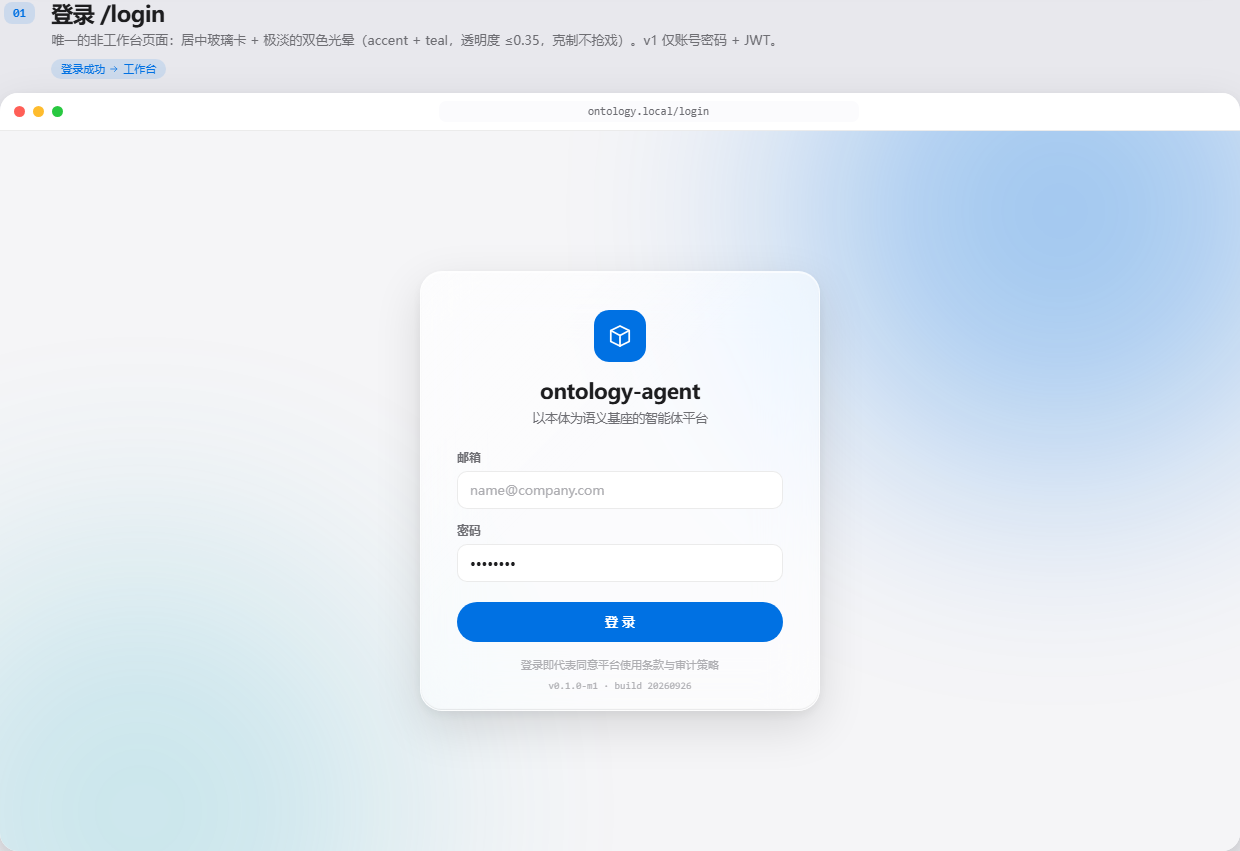
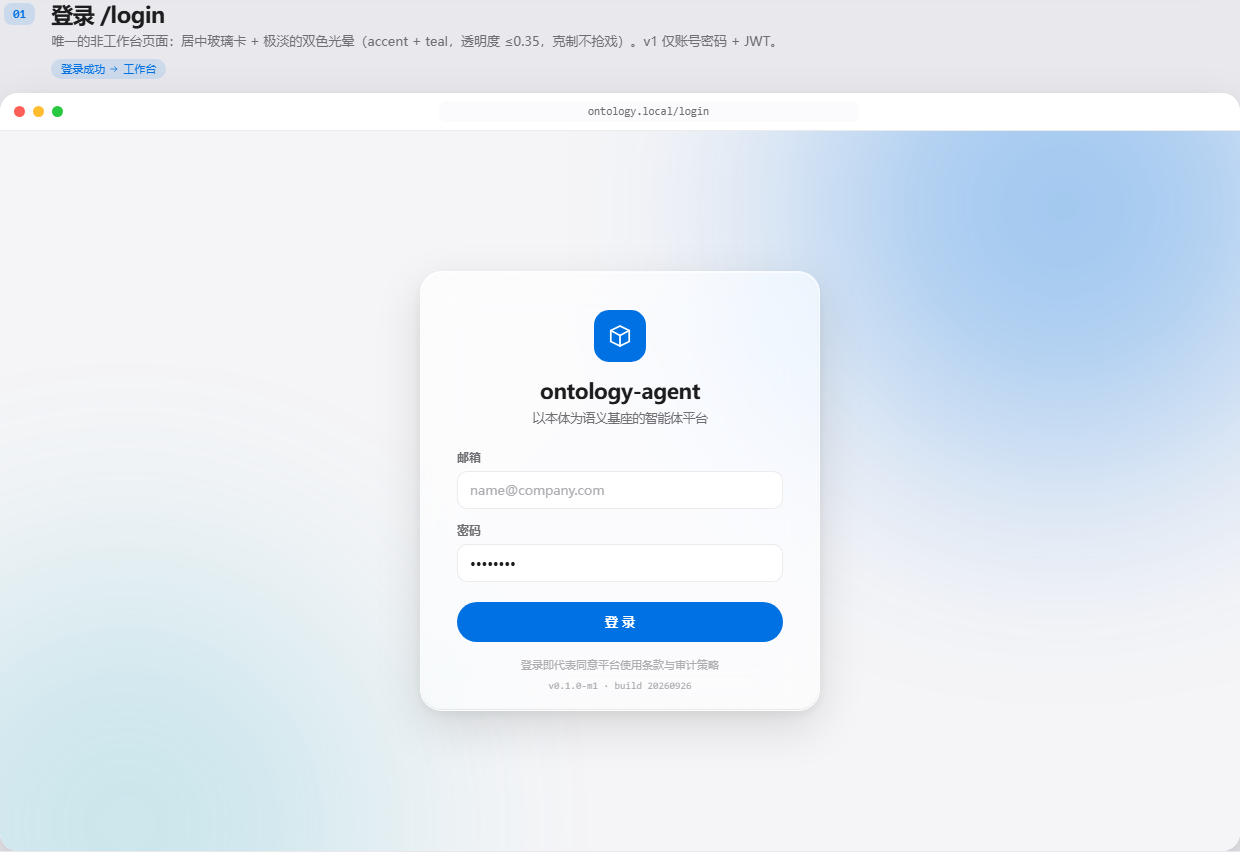
feat(frontend): 对齐 iOS 26 液态玻璃用色（Tinted 着色玻璃第三档 + 色系规则）+ 画板动效实装（滚动入场/循环动效/动效展演区/重播）

diff --git a/docs/设计稿/ui-design-board.html b/docs/设计稿/ui-design-board.html
@@ -54,6 +54,43 @@
   --glass-lo:rgba(0,0,0,.3);
   --glass-border:rgba(255,255,255,.14);
 }
+
+/* ---- 动效实装（styles/motion.css 同源；滚动入场由 IntersectionObserver 触发） ---- */
+@keyframes oa-fade-up{from{opacity:0;transform:translateY(8px)}to{opacity:1;transform:none}}
+@keyframes oa-pulse-ring{0%{box-shadow:0 0 0 0 var(--accent-soft)}70%{box-shadow:0 0 0 6px transparent}100%{box-shadow:0 0 0 0 transparent}}
+@keyframes oa-caret{0%,45%{opacity:1}50%,100%{opacity:0}}
+@keyframes oa-shimmer{from{background-position:200% 0}to{background-position:-200% 0}}
+@keyframes oa-indet{from{left:-40%}to{left:100%}}
+@keyframes oa-sheen-loop{0%{background-position:220% 0}55%,100%{background-position:-120% 0}}
+@keyframes oa-blob-drift{0%,100%{transform:translate(0,0) scale(1)}33%{transform:translate(3%,-4%) scale(1.04)}66%{transform:translate(-3%,3%) scale(.97)}}
+.pulse-ring{animation:oa-pulse-ring 2s var(--ease) infinite}
+.stream-caret{display:inline-block;width:2px;height:.95em;vertical-align:-2px;background:var(--accent);margin-left:2px;animation:oa-caret 1s steps(1) infinite}
+.skel-animated{background:linear-gradient(90deg,rgba(0,0,0,.06) 25%,rgba(0,0,0,.12) 50%,rgba(0,0,0,.06) 75%);background-size:200% 100%;animation:oa-shimmer 1.4s linear infinite}
+.dark .skel-animated{background:linear-gradient(90deg,rgba(255,255,255,.08) 25%,rgba(255,255,255,.16) 50%,rgba(255,255,255,.08) 75%);background-size:200% 100%}
+.indeterminate{position:relative;overflow:hidden;background:var(--accent-soft);border-radius:3px;height:6px}
+.indeterminate::after{content:"";position:absolute;top:0;bottom:0;width:40%;border-radius:3px;background:var(--accent);animation:oa-indet 1.2s var(--ease) infinite}
+.glass-sheen-loop{position:relative;overflow:hidden}
+.glass-sheen-loop::after{content:"";position:absolute;inset:0;border-radius:inherit;pointer-events:none;
+  background:linear-gradient(115deg,transparent 38%,var(--glass-hi) 50%,transparent 62%);
+  background-size:220% 100%;background-position:220% 0;opacity:.4;mix-blend-mode:screen;
+  animation:oa-sheen-loop 5.5s var(--ease) infinite}
+.blob-drift{animation:oa-blob-drift 14s ease-in-out infinite}
+/* 滚动入场：画框头与 stagger 列表进入视口才播 */
+.frame-head,.anim-up{opacity:0;transform:translateY(8px);transition:opacity .4s var(--ease),transform .4s var(--ease)}
+.frame.in-view .frame-head,.in-view.anim-up{opacity:1;transform:none}
+.stagger>*{opacity:0;transform:translateY(8px)}
+.frame.in-view .stagger>*{animation:oa-fade-up .4s var(--ease) both}
+.frame.in-view .stagger>*:nth-child(2){animation-delay:40ms}
+.frame.in-view .stagger>*:nth-child(3){animation-delay:80ms}
+.frame.in-view .stagger>*:nth-child(4){animation-delay:120ms}
+.frame.in-view .stagger>*:nth-child(5){animation-delay:160ms}
+.frame.in-view .stagger>*:nth-child(n+6){animation-delay:200ms}
+.theme-fading *{transition:background-color var(--dur-2) var(--ease),color var(--dur-2) var(--ease),border-color var(--dur-2) var(--ease)!important}
+@media (prefers-reduced-motion:reduce){
+  .frame-head,.anim-up,.stagger>*{opacity:1!important;transform:none!important;animation:none!important}
+  .pulse-ring,.stream-caret,.skel-animated,.indeterminate::after,.glass-sheen-loop::after,.blob-drift{animation:none!important}
+}
+
 /* ============ 画板全局 ============ */
 *{box-sizing:border-box;margin:0;padding:0}
 html{scroll-behavior:smooth}
@@ -745,6 +782,37 @@ body{font-family:var(--font);background:var(--board);color:var(--label);
           <p style="font-size:11px;color:var(--label-3);margin-top:8px">CLI `oa` 全集见 13 篇；复制按钮 hover 显现。</p>
         </div>
       </div>
+      <!-- 动效展演（实时循环，motion.css 同源） -->
+      <div style="display:flex;align-items:center;gap:10px;padding:20px 4px 2px">
+        <h3 style="font-size:15px;font-weight:700">动效展演</h3>
+        <span class="badge b-blue">motion.css 实时循环</span>
+        <span style="margin-left:auto"><button class="btn btn-g btn-sm" onclick="replayMotion()">重播入场</button></span>
+      </div>
+      <div class="grid3 stagger" style="margin-top:12px" id="motion-demo">
+        <div class="card">
+          <div class="card-h" style="margin-bottom:10px"><h3 style="font-size:13.5px">加载态</h3><span class="badge b-gray">skel-animated / indeterminate</span></div>
+          <div class="skel skel-animated" style="width:70%"></div><div class="skel skel-animated" style="width:90%;margin-top:8px"></div><div class="skel skel-animated" style="width:50%;margin-top:8px"></div>
+          <div style="font-size:11px;color:var(--label-2);margin:14px 0 5px">流水线心跳（不确定进度）</div>
+          <div class="indeterminate"></div>
+          <div style="display:flex;align-items:center;gap:8px;margin-top:14px;font-size:12px;color:var(--label-2)">
+            <svg class="spin" style="width:13px;height:13px;color:var(--accent)"><use href="#i-refresh"/></svg>批量抽取运行中…</div>
+        </div>
+        <div class="card">
+          <div class="card-h" style="margin-bottom:10px"><h3 style="font-size:13.5px">运行态 / 流式</h3><span class="badge b-gray">pulse-ring / stream-caret</span></div>
+          <div style="display:flex;align-items:center;gap:8px;font-size:13px"><span class="dot d-green pulse-ring"></span>原生 Agent 运行中</div>
+          <div style="margin-top:14px;background:var(--surface-2);border:1px solid var(--separator);border-radius:12px;padding:10px 12px;font-size:12.5px;line-height:1.7">
+            两个标准在循环寿命上的核心差异…<span class="stream-caret"></span></div>
+          <div style="font-size:11px;color:var(--label-3);margin-top:10px">对话生成中：光标闪烁直到 RUN_FINISHED</div>
+        </div>
+        <div class="card">
+          <div class="card-h" style="margin-bottom:10px"><h3 style="font-size:13.5px">玻璃氛围 / 反馈</h3><span class="badge b-gray">sheen-loop / hover-lift</span></div>
+          <div class="glass glass-sheen-loop" style="border-radius:14px;padding:12px 14px;font-size:12px"><b>Regular 光扫循环</b><div class="text-dim" style="margin-top:3px">登录卡 / 空态插图用</div></div>
+          <div class="row" style="margin-top:10px;display:flex;gap:8px">
+            <button class="btn btn-gl-p">Tinted 主操作</button>
+            <button class="btn btn-gl hover-lift pressable">hover / press</button></div>
+          <div style="font-size:11px;color:var(--label-3);margin-top:10px">Tinted 着色玻璃：iOS 26 第三档，每屏至多一处</div>
+        </div>
+      </div>
     </div></div>
   </section>
 
@@ -760,8 +828,8 @@ body{font-family:var(--font);background:var(--board);color:var(--label);
     </div>
     <div class="browser"><div class="bbar"><span class="bdot" style="background:#ff5f57"></span><span class="bdot" style="background:#febc2e"></span><span class="bdot" style="background:#28c840"></span><span class="burl">ontology.local/login</span></div>
       <div class="login-stage">
-        <div class="login-wash lw1"></div><div class="login-wash lw2"></div>
-        <div class="login-card">
+        <div class="login-wash lw1 blob-drift"></div><div class="login-wash lw2 blob-drift" style="animation-delay:-7s"></div>
+        <div class="login-card glass-sheen-loop">
           <div class="login-logo"><svg><use href="#i-cube"/></svg></div>
           <h1>ontology-agent</h1>
           <p class="lsub">以本体为语义基座的智能体平台</p>
@@ -929,7 +997,7 @@ body{font-family:var(--font);background:var(--board);color:var(--label);
                         <span class="ev-chip"><svg><use href="#i-doc"/></svg>GB/T 36276-2018 §5.2.4</span>
                         <span class="ev-chip"><svg><use href="#i-cube"/></svg>图谱路径：循环寿命 ←特性— 对象：电池单体</span>
                       </div>
-                      <p style="font-size:11px;color:var(--label-2);margin-top:10px">以上结论经本体约束过滤（术语对齐 0.92+），推理路径可追溯。</p>
+                      <span class="stream-caret"></span><p style="font-size:11px;color:var(--label-2);margin-top:10px">以上结论经本体约束过滤（术语对齐 0.92+），推理路径可追溯。</p>
                     </div>
                   </div></div>
               </div>
@@ -1601,7 +1669,7 @@ body{font-family:var(--font);background:var(--board);color:var(--label);
             <div class="card" style="padding:6px 14px">
               <table class="tbl">
                 <tr><th>文档名称</th><th>类型</th><th>大小</th><th>切片</th><th>流水线</th><th>更新</th><th></th></tr>
-                <tr><td style="font-weight:600">动力电池标准汇编 v3.pdf</td><td><span class="badge b-gray">PDF</span></td><td class="mono">18.2MB</td><td class="mono">412</td><td><span class="badge b-orange"><span class="dot d-orange" style="width:5px;height:5px"></span>抽取中 · JOB #218</span></td><td class="text-dim">10 分钟前</td><td><span class="icobtn" style="width:24px;height:24px"><svg><use href="#i-more"/></svg></span></td></tr>
+                <tr><td style="font-weight:600">动力电池标准汇编 v3.pdf</td><td><span class="badge b-gray">PDF</span></td><td class="mono">18.2MB</td><td class="mono">412</td><td><span class="badge b-orange"><span class="dot d-orange pulse-ring" style="width:5px;height:5px"></span>抽取中 · JOB #218</span></td><td class="text-dim">10 分钟前</td><td><span class="icobtn" style="width:24px;height:24px"><svg><use href="#i-more"/></svg></span></td></tr>
                 <tr><td style="font-weight:600">GB送审稿-热失控专题.docx</td><td><span class="badge b-gray">Word</span></td><td class="mono">2.4MB</td><td class="mono">58</td><td><span class="badge b-blue">预处理</span></td><td class="text-dim">1 小时前</td><td><span class="icobtn" style="width:24px;height:24px"><svg><use href="#i-more"/></svg></span></td></tr>
                 <tr><td style="font-weight:600">循环寿命测试数据.xlsx</td><td><span class="badge b-gray">Excel</span></td><td class="mono">860KB</td><td class="mono">31</td><td><span class="badge b-green">已入库</span></td><td class="text-dim">昨天</td><td><span class="icobtn" style="width:24px;height:24px"><svg><use href="#i-more"/></svg></span></td></tr>
                 <tr><td style="font-weight:600">退单流程图（扫描）.png</td><td><span class="badge b-gray">图片</span></td><td class="mono">4.1MB</td><td class="mono">6</td><td><span class="badge b-green">已入库 · OCR 复核完成</span></td><td class="text-dim">周一</td><td><span class="icobtn" style="width:24px;height:24px"><svg><use href="#i-more"/></svg></span></td></tr>
@@ -1948,5 +2016,21 @@ body{font-family:var(--font);background:var(--board);color:var(--label);
     评审通过后按 16 篇页面规格进入 M1 实现 · 03 篇路由表 15 页已全部覆盖（本体项目/知识库/图谱/Agent/工具技能/MCP/系统管理 为 v1.3 新增）
   </p>
 </div>
+
+<script>
+const io = new IntersectionObserver(es => es.forEach(e => {
+  if (e.isIntersecting) { e.target.classList.add('in-view'); io.unobserve(e.target); }
+}), {threshold: .12});
+document.querySelectorAll('.frame').forEach(f => io.observe(f));
+function replayMotion(){
+  const d = document.getElementById('motion-demo');
+  d.classList.remove('stagger'); void d.offsetWidth; d.classList.add('stagger');
+}
+const _toggle = document.querySelector('.theme-btn');
+_toggle.addEventListener('click', () => {
+  document.documentElement.classList.add('theme-fading');
+  setTimeout(() => document.documentElement.classList.remove('theme-fading'), 300);
+});
+</script>
 </body>
 </html>

diff --git a/frontend/src/design-system/styles/glass.css b/frontend/src/design-system/styles/glass.css
@@ -46,8 +46,8 @@
   border:1px solid var(--glass-border);
   box-shadow:inset 0 1px 0 var(--glass-hi),inset 0 -1px 1px var(--glass-lo);
 }
-.btn-gl-p{color:var(--on-accent);border:1px solid rgba(255,255,255,.4);
-  background:linear-gradient(135deg,rgba(255,255,255,.32),rgba(255,255,255,0) 45%),var(--accent);
+.btn-gl-p{color:var(--on-accent);border:1px solid var(--glass-tinted-border);
+  background:linear-gradient(135deg,rgba(255,255,255,.28),rgba(255,255,255,0) 45%),var(--glass-tinted);
   box-shadow:inset 0 1px 0 rgba(255,255,255,.5),inset 0 -1px 2px rgba(0,0,0,.15),var(--glow-accent);
 }
 .btn-gl:hover,.btn-gl-p:hover{transform:translateY(-1px)}
@@ -60,3 +60,13 @@
   .glass,.glass-clear,.btn-gl{background:var(--surface);border-color:var(--separator)}
   .glass::after,.glass-clear::after{display:none}
 }
+
+/* Tinted 着色玻璃（iOS 26 第三档）：强调色透过玻璃，每屏至多一处主操作/选中态 */
+.glass-tinted{
+  position:relative;
+  background:linear-gradient(135deg,rgba(255,255,255,.22),transparent 45%),var(--glass-tinted);
+  -webkit-backdrop-filter:blur(24px) saturate(200%);backdrop-filter:blur(24px) saturate(200%);
+  border:1px solid var(--glass-tinted-border);color:var(--on-accent);
+  box-shadow:inset 0 1px 0 rgba(255,255,255,.4),inset 0 -1px 1px rgba(0,0,0,.15),var(--glow-accent);
+}
+@media (prefers-reduced-transparency:reduce){.glass-tinted{background:var(--accent)}}

diff --git a/frontend/src/design-system/tokens/tokens.css b/frontend/src/design-system/tokens/tokens.css
@@ -33,6 +33,8 @@
   --glass-hi:rgba(255,255,255,.65);          /* 顶部镜面高光 */
   --glass-lo:rgba(0,0,0,.08);                /* 底部内阴影 */
   --glass-border:rgba(255,255,255,.55);
+  --glass-tinted:rgba(0,113,227,.78);       /* Tinted：强调色着色玻璃（主操作/选中，iOS 26） */
+  --glass-tinted-border:rgba(255,255,255,.4);
 
   /* 几何 / 阴影 / 动效 / 字体 */
   --r-card:18px; --r-panel:14px; --r-ctl:10px; --r-pill:999px;
@@ -78,6 +80,8 @@
   --glass-hi:rgba(255,255,255,.22);
   --glass-lo:rgba(0,0,0,.3);
   --glass-border:rgba(255,255,255,.14);
+  --glass-tinted:rgba(10,132,255,.6);
+  --glass-tinted-border:rgba(255,255,255,.25);
   --sh-card:0 2px 8px rgba(0,0,0,.3),0 8px 24px rgba(0,0,0,.35);
   --sh-float:0 4px 12px rgba(0,0,0,.4),0 16px 48px rgba(0,0,0,.55);
   --edge:rgba(255,255,255,.22);

diff --git a/docs/架构设计/03-前端架构与UI设计规范.md b/docs/架构设计/03-前端架构与UI设计规范.md
@@ -32,11 +32,11 @@
 ### 2.1 设计语言要点
 
 - **材质（液态玻璃 Liquid Glass，2025 Apple 设计语言）**：大面积浅灰底 `#f5f5f7` 上的白色浮层；**控制/导航层用液态玻璃**——透镜式折射（`backdrop-filter: blur(24px) saturate(200%)` 高饱和保真，避免纯 blur 的"灰塑料感"）+ 顶部镜面高光（inset 白色 rim light）+ 底部内阴影 + 半透明渐变着色 + 1px 半透明描边；玻璃层随背后内容自适应亮暗。深色模式底 `#000`。
-- **玻璃分两档**（对齐 Apple HIG）：**Regular**（较实，着色 60–72%，承载文字，用于侧边栏/顶栏/对话框/输入栏）与 **Clear**（较透，着色 30–40%，悬浮于内容/画布之上，用于画布工具条、验证条、悬浮控件）。
+- **玻璃分三档**（对齐 iOS 26 HIG）：**Regular**（较实，着色 60–72%，承载文字，用于侧边栏/顶栏/对话框/输入栏）、**Clear**（较透，着色 30–40%，悬浮于内容/画布之上，用于画布工具条、验证条、悬浮控件）与 **Tinted**（强调色着色玻璃 `--glass-tinted`，色透过玻璃呈现，用于每屏唯一的主操作/选中态——SwiftUI `.glassProminent` 的等价物）。
 - **字体**：系统字体栈（SF Pro / 苹方 / 鸿蒙 / 雅黑降级链），大标题收紧字距，正文 15px 起步，层级靠字重与字号不靠颜色堆砌。
 - **形状（同心几何）**：卡片连续大圆角（16–18px）、按钮胶囊形（CTA）/ 10px（常规）、输入框 10px；**嵌套圆角必须同心**（外 18 内 10，圆心一致，Apple Liquid Glass 几何规则）；分隔线用 0.5px 发丝线。
 - **阴影**：极柔和双层阴影 + 玻璃层的 inset 高光/内阴影；hover 时轻微抬升。
-- **颜色**：克制的单强调色（系统蓝），语义色（红/绿/橙）只用于状态；整体像 macOS 系统设置，不像后台管理系统。
+- **颜色（色系）**：克制的单强调色（系统蓝，iOS 26 系统蓝同源），语义色（红/绿/橙）只用于状态；**玻璃语境下语义色一律用 soft 底色，着色只出现在 Tinted 玻璃与选中态**（iOS 26：材质自适应亮暗与背后内容，不硬编码）；整体像 macOS/iOS 系统设置，不像后台管理系统。
 - 动效：一切进出场都有位移 + 透明度过渡；时长令牌 `--dur-1 150ms`（微交互）/ `--dur-2 250ms`（标准过渡）/ `--dur-3 400ms`（强调入场）/ `--dur-4 700ms`（氛围），`ease-apple` 与 `spring` 曲线；液态玻璃动效（hover 光扫/sheen 循环/光斑漂移）与平台微交互（stagger/pulse-ring/流式光标/shimmer 骨架/不确定进度/tick）统一在样式库 **`styles/motion.css`**（24 篇 §4.9）；玻璃控件状态切换用 **morphing 弹簧**；尊重 `prefers-reduced-motion` 与 `prefers-reduced-transparency`（后者玻璃退化为实底）。
 
 ### 2.2 颜色令牌（亮 / 暗成对）
@@ -53,6 +53,8 @@
 | `--glass-hi` | `rgba(255,255,255,.65)` | `rgba(255,255,255,.22)` | 顶部镜面高光（inset rim light） |
 | `--glass-lo` | `rgba(0,0,0,.08)` | `rgba(0,0,0,.3)` | 底部内阴影 |
 | `--glass-border` | `rgba(255,255,255,.55)` | `rgba(255,255,255,.14)` | 玻璃描边 |
+| `--glass-tinted` | `rgba(0,113,227,.78)` | `rgba(10,132,255,.6)` | **Tinted 着色玻璃**（主操作/选中，强调色透出） |
+| `--on-accent` | `#ffffff` | `#ffffff` | 强调色/着色玻璃上的文字 |
 | `--label` | `#1d1d1f` | `#f5f5f7` | 主文字 |
 | `--label-2` | `#6e6e73` | `#a1a1a6` | 次文字 |
 | `--label-3` | `#aeaeb2` | `#636366` | 占位 / 禁用 |
@@ -139,7 +141,7 @@ design-system/
 
 1. **玻璃只给控制/导航层**：侧边栏、顶栏、输入栏、悬浮工具条、Toast、Dialog/Sheet、玻璃按钮；**内容层一律实底**（卡片、表格、文档、表单、图谱节点）——保证可读性是玻璃材质的第一约束；
 2. **玻璃不叠玻璃**：玻璃层上不再放玻璃子元素（Dialog 内表单区用实底面板）；
-3. **两档选用**：承载文字的浮层用 Regular，悬浮于画布/媒体之上用 Clear；文字对比度不达标时升级为 Regular 或实底；
+3. **三档选用**：承载文字的浮层用 Regular，悬浮于画布/媒体之上用 Clear，**主操作/选中态用 Tinted**；Tinted 每屏至多一处（HIG：过度着色稀释层级）；文字对比度不达标时升级为 Regular 或实底；
 4. **实现分层**（CSS 原型见设计稿画板）：`backdrop-filter: blur(24px) saturate(200%)` + `--glass-tint` 对角渐变 + `inset 0 1px 0 var(--glass-hi)` 镜面高光 + `inset 0 -1px 1px var(--glass-lo)` + `1px var(--glass-border)` 描边；忠实折射（SVG feDisplacementMap）仅 Chromium 支持，v1 不引入；
 5. **退化路径**：`prefers-reduced-transparency` 或不支持 backdrop-filter 时，玻璃令牌替换为对应实底（`--surface`），布局不变；
 6. **同心圆角**：玻璃容器与其内部控件圆角同心（外 18 → 内 10）。

diff --git a/docs/架构设计/24-前端组件库扩充与外部样式借鉴.md b/docs/架构设计/24-前端组件库扩充与外部样式借鉴.md
@@ -94,7 +94,7 @@ DSH 的"一切皆插件 + 只追加事件日志"与本平台 05 篇"插件一入
 3. **accent 光晕**（glow）：主 CTA `box-shadow: 0 0 0 1px var(--glass-border), 0 8px 32px var(--accent-soft)`；选中图谱节点光晕已有同款，统一为 `--glow-accent` 令牌；
 4. **终端卡**（DSH）：`--surface-2` 底 + 发丝线圆角 12 + mono 13px + `$` 提示符 label-3 色 + 右上复制按钮（hover 显现）；
 5. **来源着色体系**（DSH Trajectory）：系统提示词=indigo / 工具调用=teal / 子 Agent=purple / 上下文注入=orange / 用户=accent——固定映射写入 tokens（`--src-*`）与 theme.ts，轨迹、审计、通知三处共用；
-9. **动效体系**（motion.css，2026 微交互趋势：克制、传递状态）：入场 `anim-fade-up/scale-in/slide-in-*` + 列表 `stagger`；运行态 `pulse-ring`（呼吸点）/`stream-caret`（流式光标）/`spin`；加载 `skel-animated`（shimmer 骨架）/`indeterminate`（不确定进度）；玻璃氛围 `glass-sheen-loop`（光扫循环）/`blob-drift`（登录光斑漂移）；反馈 `hover-lift`/`pressable`/`tick`（数字变化）；主题切换交叉淡化 `.theme-fading`。全部走 `--dur-1..4` 时长令牌，无限循环仅限运行态与氛围层，`prefers-reduced-motion` 全量降级。
+9. **动效体系**（motion.css，2026 微交互趋势：克制、传递状态）：入场 `anim-fade-up/scale-in/slide-in-*` + 列表 `stagger`；运行态 `pulse-ring`（呼吸点）/`stream-caret`（流式光标）/`spin`；加载 `skel-animated`（shimmer 骨架）/`indeterminate`（不确定进度）；玻璃氛围 `glass-sheen-loop`（光扫循环）/`blob-drift`（登录光斑漂移）；反馈 `hover-lift`/`pressable`/`tick`（数字变化）；主题切换交叉淡化 `.theme-fading`。全部走 `--dur-1..4` 时长令牌，无限循环仅限运行态与氛围层，`prefers-reduced-motion` 全量降级。设计画板已实装（滚动入场 IntersectionObserver + 循环动效实演 + 重播按钮），动效验收 = 打开画板直接看，不看静态截图。
 6. **批量操作浮条**：底部居中玻璃 Regular 胶囊（`inset 高光 + sh-float`），出现弹簧 morphing；
 7. **时间线左轨**（Geist）：2px 轨道 label-3 色 + 12px 状态点（语义色）+ 相对时间 caption；
 8. **表格式密度**（Linear）：行高 36px、hover 行底 `--surface-2`、选中行左缘 2px accent——DataTable 与审核队列共用。

diff --git a/docs/设计稿/README.md b/docs/设计稿/README.md
@@ -1,6 +1,6 @@
 # UI 设计稿（Apple 液态玻璃风格可视化画板）
 
-> v1.1（液态玻璃 Liquid Glass）| 2026-09-26 | 设计事实源：[docs/架构设计/03-前端架构与UI设计规范.md](../架构设计/03-前端架构与UI设计规范.md)（§2.1 材质、§2.2 玻璃令牌、§3.0 使用规则）
+> v1.4（液态玻璃 + 动效实装）| 2026-09-26 | 设计事实源：[docs/架构设计/03-前端架构与UI设计规范.md](../架构设计/03-前端架构与UI设计规范.md)（§2.1 材质、§2.2 玻璃令牌、§3.0 使用规则）
 
 ## 怎么看
 
@@ -31,6 +31,10 @@
 3. 图标为内联 SVG 线性风格（1.5px 描边，SF Symbols 观感），无 emoji；
 4. 图谱画布节点分类色板：purple/teal/indigo/ green/orange（约束）/accent（选中）——节点保持实底（内容层）；
 5. 未覆盖页面（知识库列表、Agent 管理、工具与技能、MCP 管理、系统管理）复用本稿骨架，实现前按 16 篇规格补充。
+
+## 动效怎么看（v1.4）
+
+动效是**活的**，静态截图看不到：打开画板后①滚动页面——各画框标题与卡片列表有滚动入场（stagger 交错）；②持续循环——登录卡光扫、登录页光斑漂移、运行中状态点呼吸、对话流式光标、知识库抽取中的不确定进度条、骨架屏 shimmer；③00 画框底部"动效展演"区集中演示全部循环动效，右上"重播入场"可反复观看；④右上切换亮暗有交叉淡化。实现规范见 `frontend/src/design-system/styles/motion.css`（24 篇 §4.9）。
 
 ## 与实现的关系
 
